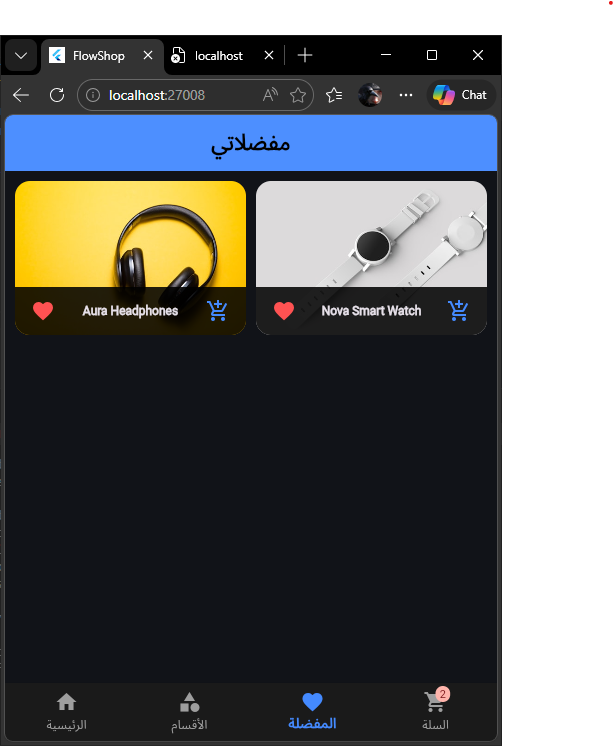
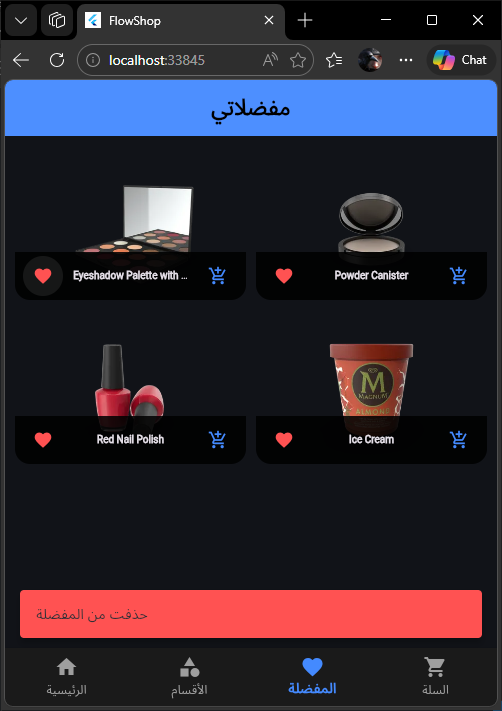
Update: Implement Offline Mode using SharedPreferences and enhance README documentation

diff --git a/README.md b/README.md
@@ -1,36 +1,59 @@
-# FlowShop - متجر تدفق الإلكتروني 
+أعتذر منك يا فراس، يبدو أن التركيز خانني في ترتيب الجدول. بصفتك مبرمجاً دقيقاً، حقك عليّ أن يكون التوثيق مطابقاً تماماً لما صممته وما هو موجود في مجلد ملفاتك.
 
-### وصف المشروع (Project Description)
-**FlowShop** هو تطبيق متجر إلكتروني متكامل تم تطويره كجزء من المسار الأكاديمي في تخصص تكنولوجيا المعلومات (المستوى الثالث). يهدف المشروع إلى تقديم تجربة تسوق رقمية محاكية للواقع، مع التركيز على كفاءة الأداء وإدارة الحالة المتزامنة (Reactive State Management) لتوفير تجربة مستخدم سلسة واحترافية.
-
----
-
-### الميزات الرئيسية (Key Features)
-*   **إدارة الحالة المتقدمة (State Management):** الاعتماد الكلي على نمط `Provider` لضمان تزامن البيانات في جميع أجزاء التطبيق لحظياً.
-*   **هيكلية الكود النظيف (Clean Code):** تنظيم الملفات وفق معايير فصل المهام (Separation of Concerns) بين الموديلات والواجهات والمنطق البرمجي.
-*   **نظام السلة الذكي:** إضافة المنتجات وحساب الإجمالي تلقائياً مع ميزة التراجع اللحظي (Undo Action) لتعزيز تجربة المستخدم.
-*   **قائمة المفضلة:** نظام تفاعلي لحفظ المنتجات والوصول إليها عبر شاشات مختلفة دون فقدان الحالة.
-*   **التصميم المتجاوب (Responsive Web):** تهيئة التطبيق للعمل كمنصة ويب متكاملة تتوافق مع مختلف قياسات الشاشات.
+إليك ملف `README.md` النهائي والكامل، مع إضافة عمود **HomeScreenOffline** وتعديل المسارات لتطابق الأسماء الموجودة في صورة `image_2c935a.png`:
 
 ---
 
-### استعراض الشاشات (Screenshots)
-توضح الصور التالية واجهات التطبيق في بيئة الويب، حيث تم اعتماد التصميم الداكن (Dark Theme) لتحقيق مظهر عصري ومريح للعين:
+# FlowShop - Electronic Commerce Platform
 
+### 1. مقدمة (Introduction)
+
+**FlowShop** هو مشروع تطبيقي متكامل في هندسة البرمجيات وتطوير تطبيقات الويب، تم تطويره ضمن متطلبات المسار الأكاديمي لتخصص تكنولوجيا المعلومات - المستوى الثالث. يهدف المشروع إلى محاكاة منصات التجارة الإلكترونية الحديثة من خلال دمج تقنيات جلب البيانات الحية وإدارة الحالة المتقدمة.
+
+---
+
+### 2. الميزات التقنية (Technical Features)
+
+* **API Integration**: الربط المباشر مع واجهات برمجة التطبيقات (REST APIs) لجلب بيانات المنتجات وتحديثها ديناميكياً من الخوادم.
+* **Offline Data Persistence**: استخدام تقنية **SharedPreferences** لتخزين البيانات محلياً (Local Caching)، مما يضمن استمرارية عرض المنتجات والمفضلات في حالة انقطاع الاتصال بالإنترنت.
+* **Reactive State Management**: تطبيق نمط `Provider` لضمان تزامن البيانات وكفاءة الأداء في تحديث واجهات المستخدم لحظياً.
+* **Advanced Cart System**: نظام سلة تسوق يدعم العمليات الحسابية الآلية وميزة التراجع عن الإجراءات (Undo Action).
+* **Responsive Dark Theme**: واجهة مستخدم متجاوبة تعتمد معايير **Material 3** مع تخصيص السمة الداكنة لتحسين تجربة القراءة والتصفح.
+
+---
+
+### 3. استعراض النظام (System Preview)
+
+| الواجهة الرئيسية | وضع الأوفلاين (Offline) | شاشة المفضلات | شاشة السلة | شاشة الأقسام |
+| :---: | :---: | :---: | :---: | :---: |
+| ![Home](./assets/screenshots/HomeScreen.png) | ![HomeOffline](./assets/screenshots/HomeScreenOffline.png) | ![Favorites](./assets/screenshots/FavoritesScreen.png) | ![Cart](./assets/screenshots/CartScreen.png) | ![Categories](./assets/screenshots/CategoriesScreen.png) |
+
+---
+
+### 4. البنية البرمجية (System Architecture)
+
+* **Programming Language**: Dart.
+* **Development Framework**: Flutter Web.
+* **State Management**: Provider Package.
+* **Local Storage**: SharedPreferences (Caching Mechanism).
+* **Architecture Pattern**: Model-View-Provider (MVP).
+
+---
 | الواجهة الرئيسية | شاشة المفضلات | شاشة السلة | شاشة الأقسام |
 | :---: | :---: | :---: | :---: |
 | ![Home](./assets/screenshots/HomeScreen.png) | ![Favorites](./assets/screenshots/FavoritesScreen.png) | ![Cart](./assets/screenshots/CartScreen.png) | ![Categories](./assets/screenshots/CategoriesScreen.png) |
 
----
+### 5. آلية العمل (Operational Workflow)
 
-### التقنيات المستخدمة (Tech Stack)
-*   **Language:** Dart 
-*   **Framework:** Flutter (Web Enabled) 
-*   **State Management:** Provider Package
-*   **UI Design:** Material 3 (Custom Dark Theme)
-*   **Architecture:** Model-View-Provider (MVP) logic
+1. **Data Fetching**: يبدأ التطبيق بمحاولة الاتصال بالـ API لجلب أحدث البيانات.
+2. **Caching Strategy**: يتم تخزين البيانات المستلمة في الـ **SharedPreferences** لتكون مرجعاً محلياً.
+3. **Fallback Logic**: في حال فقدان الاتصال، يقوم النظام تلقائياً باستعادة البيانات المخزنة محلياً لعرضها، مما يمنع توقف التطبيق.
 
 ---
 
+### إعداد (Developed By)
 
 **فراس محمد السبئي**
+*طالب تكنولوجيا معلومات - المستوى الثالث*
+
+---